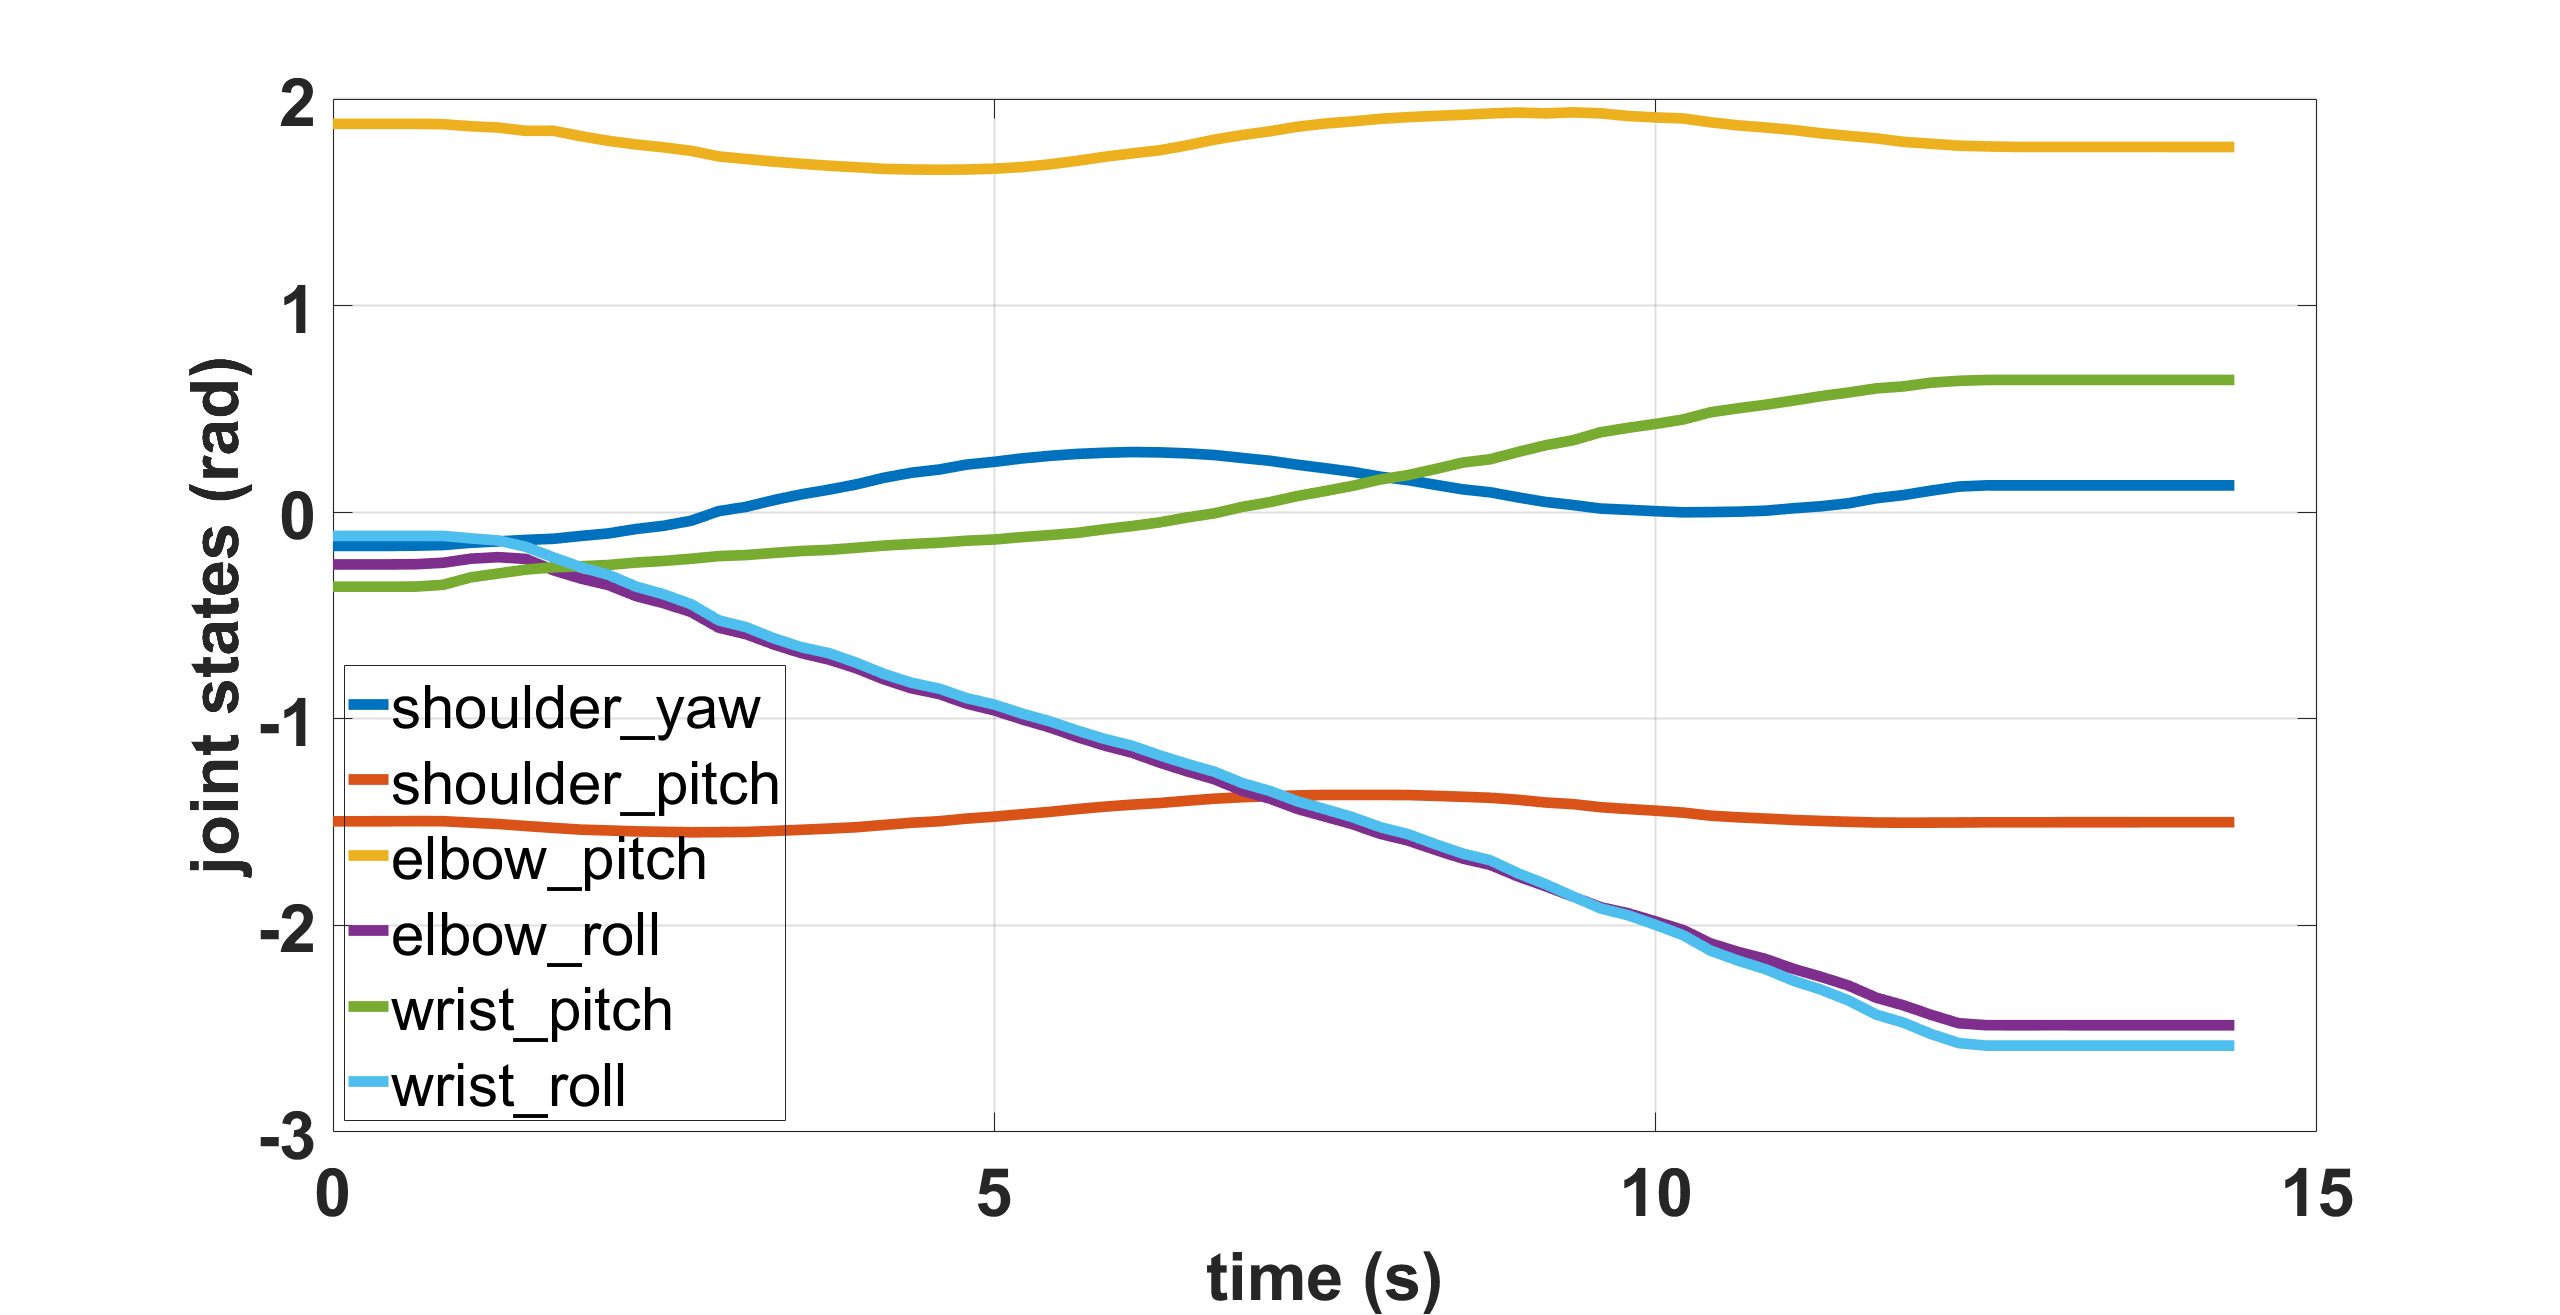
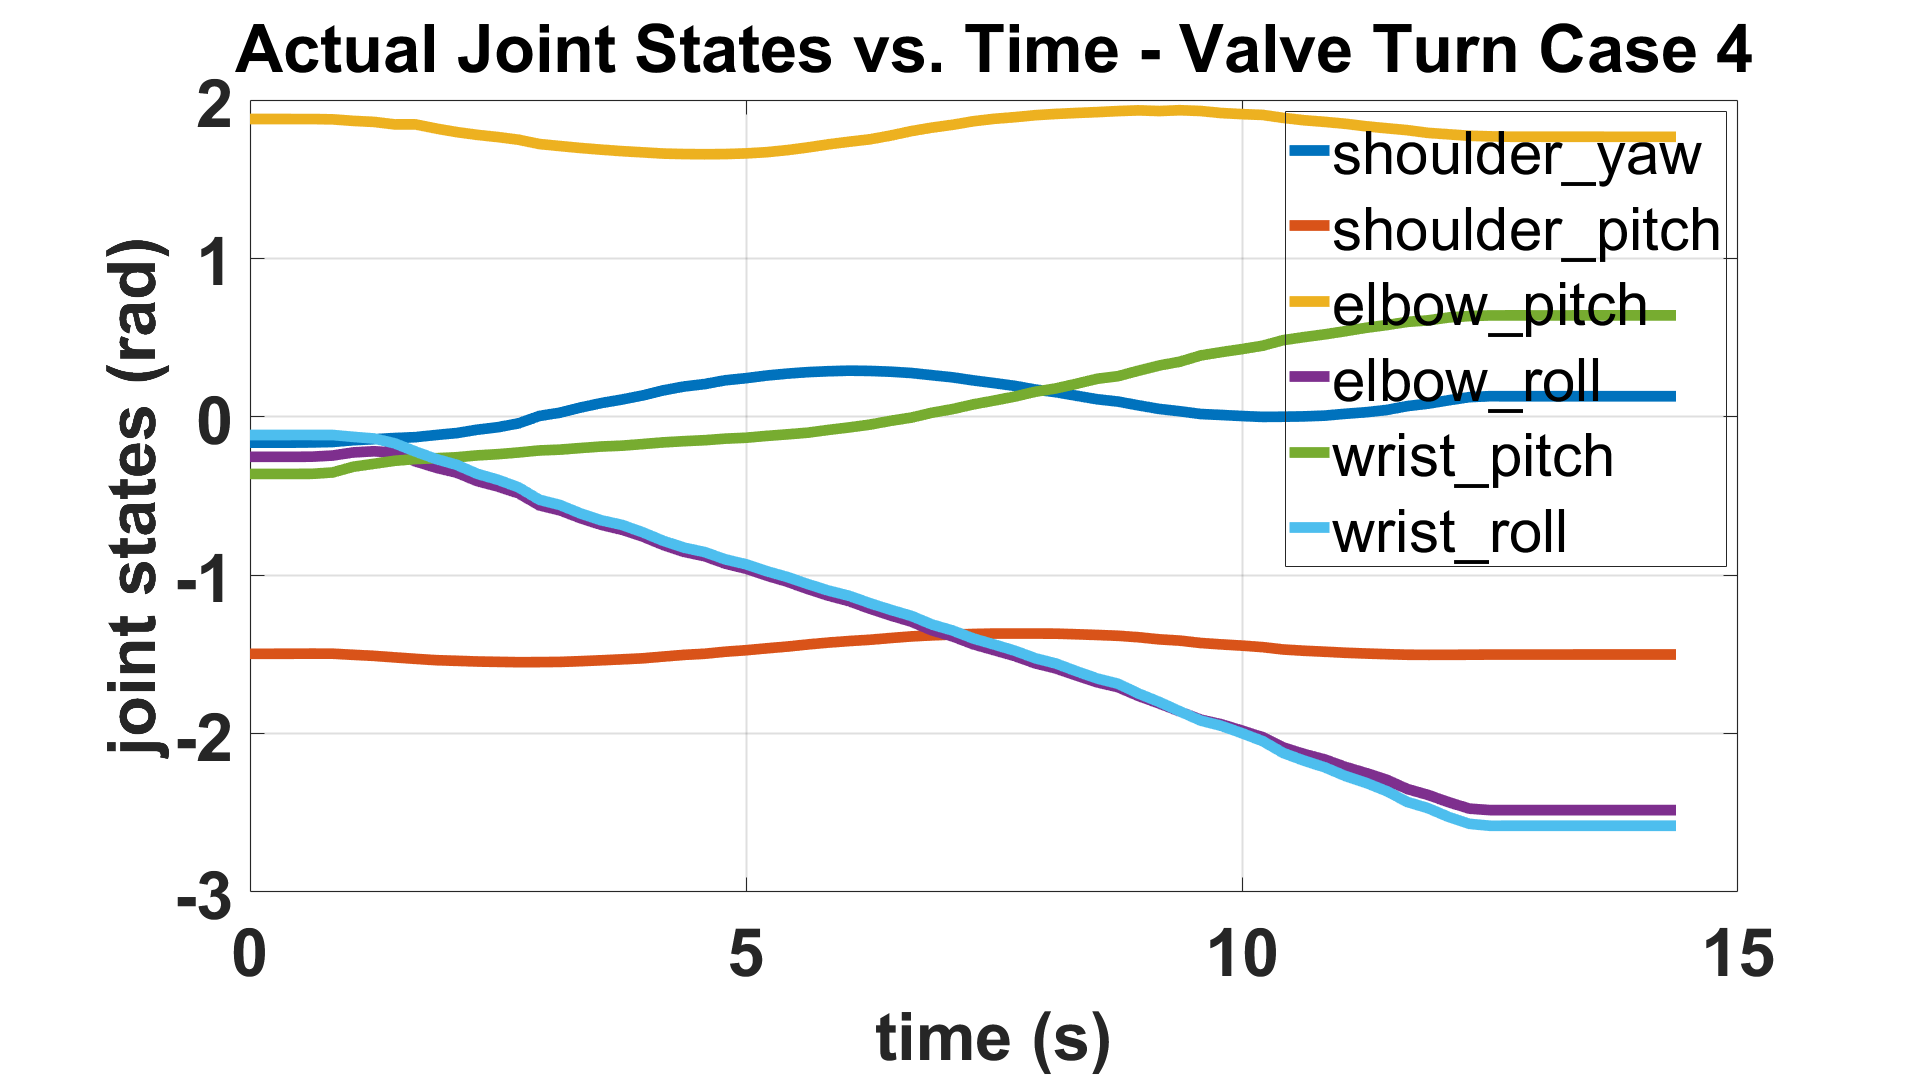
add subtitles

diff --git a/real_robot_data_plots_and_demos/orientation_experiments/valve_turn_case_4/ee_position_and_joint_states_plotter.m b/real_robot_data_plots_and_demos/orientation_experiments/valve_turn_case_4/ee_position_and_joint_states_plotter.m
@@ -208,7 +208,7 @@ grid_lw = 1.5;
 xlabel(ax_joint_states, 'time (s)');
 ylabel(ax_joint_states, 'joint states (rad)');
 legend(ax_joint_states,'Interpreter', 'none', 'Color', 'none'); % Don't interpret underscores as cues for subscripts, and don't fill the legend box
-% title(ax_joint_states, ['Actual Joint States vs. Time - ',title_postfix]);
+title(ax_joint_states, ['Actual Joint States vs. Time - ',title_postfix]);
 
 % Set fontsizes for various plot parameters
 ax_joint_states.XAxis.FontSize = tick_fontsize; 
@@ -219,7 +219,7 @@ ax_joint_states.XLabel.FontSize = label_fontsize;
 ax_joint_states.YLabel.FontSize = label_fontsize;
 ax_joint_states.ZLabel.FontSize = label_fontsize;
 ax_joint_states.Legend.FontSize = legend_fontsize;
-ax_joint_states.Legend.Location = "southwest";
+ax_joint_states.Legend.Location = "northeast";
 ax_joint_states.Title.FontSize = title_fontsize;
 ax_joint_states.GridLineWidth = grid_lw;
 
@@ -362,7 +362,7 @@ ylim([50 450])
 
 xlabel(ax_ee_traj_final, 'y(mm)');
 ylabel(ax_ee_traj_final, 'z(mm)');
-% title(ax_ee_traj_final, ['EE Trajectory and Error - ',title_postfix]);
+title(ax_ee_traj_final, ['EE Position Trajectory - ',title_postfix]);
 hLegend = legend(ax_ee_traj_final, 'Interpreter', 'none', 'Color', 'none');
 hLegend.Box = 'on'; % Turn on the legend box (if not already on)
 hLegend.Color = 'white'; % Set the background color of the legend box
@@ -394,7 +394,7 @@ ax_ee_traj_final.Legend.FontSize = legend_fontsize;
 
 
 fig5 = figure(5);
-title_fontsize = 35;
+title_fontsize = 45;
 label_fontsize = 45;
 tick_fontsize = 40;
 grid_lw = 1.5;
@@ -410,7 +410,7 @@ plot(ax_ee_traj_error_final, ...
      'LineWidth', 8, 'MarkerSize', 12, 'DisplayName', 'trajectory error');
 xlabel(ax_ee_traj_error_final, 'predicted trajectory point index');
 ylabel(ax_ee_traj_error_final, 'ee trajectory error (mm)');
-% title(ax_ee_traj_error3, ['EE Trajectory Error - ',title_postfix]);
+title(ax_ee_traj_error_final, ['EE Position Trajectory Error - ',title_postfix]);
 
 grid on
 xlim([point_labels(1) point_labels(end)]);
@@ -492,10 +492,10 @@ grid on
 
 xlabel(ax_ee_or, 'time (t), s');
 ylabel(ax_ee_or, 'ee orientation, rad');
-% title(ax_ee_or, ['EE Orientation - ',title_postfix]);
-text(ax_ee_or, 3, -0.8, sprintf('r_p = %.3f*t %.3f : predicted', pred_polyfit_euler_x), ...
+title(ax_ee_or, ['EE Orientation Trajectory - ',title_postfix]);
+text(ax_ee_or, 3, -0.8, sprintf('r_p = %.3f*t %.3f', pred_polyfit_euler_x), ...
     'Rotation', -25, 'FontWeight', 'bold', 'FontSize',25, 'Color', 'r');
-text(ax_ee_or, 2.3, -2.0, sprintf('r_a = %.3f*t %.3f : actual', act_polyfit_euler_x), ...
+text(ax_ee_or, 2.3, -2.0, sprintf('r_a = %.3f*t %.3f', act_polyfit_euler_x), ...
     'Rotation', -25, 'FontWeight', 'bold', 'FontSize',25, 'Color','#f08080');
 legend([pred_or_plot_euler_y, pred_or_plot_euler_z, pred_or_plot_euler_x_trend, act_or_plot_euler_y, act_or_plot_euler_z, act_or_plot_euler_x_trend], 'Color', 'none');
 
